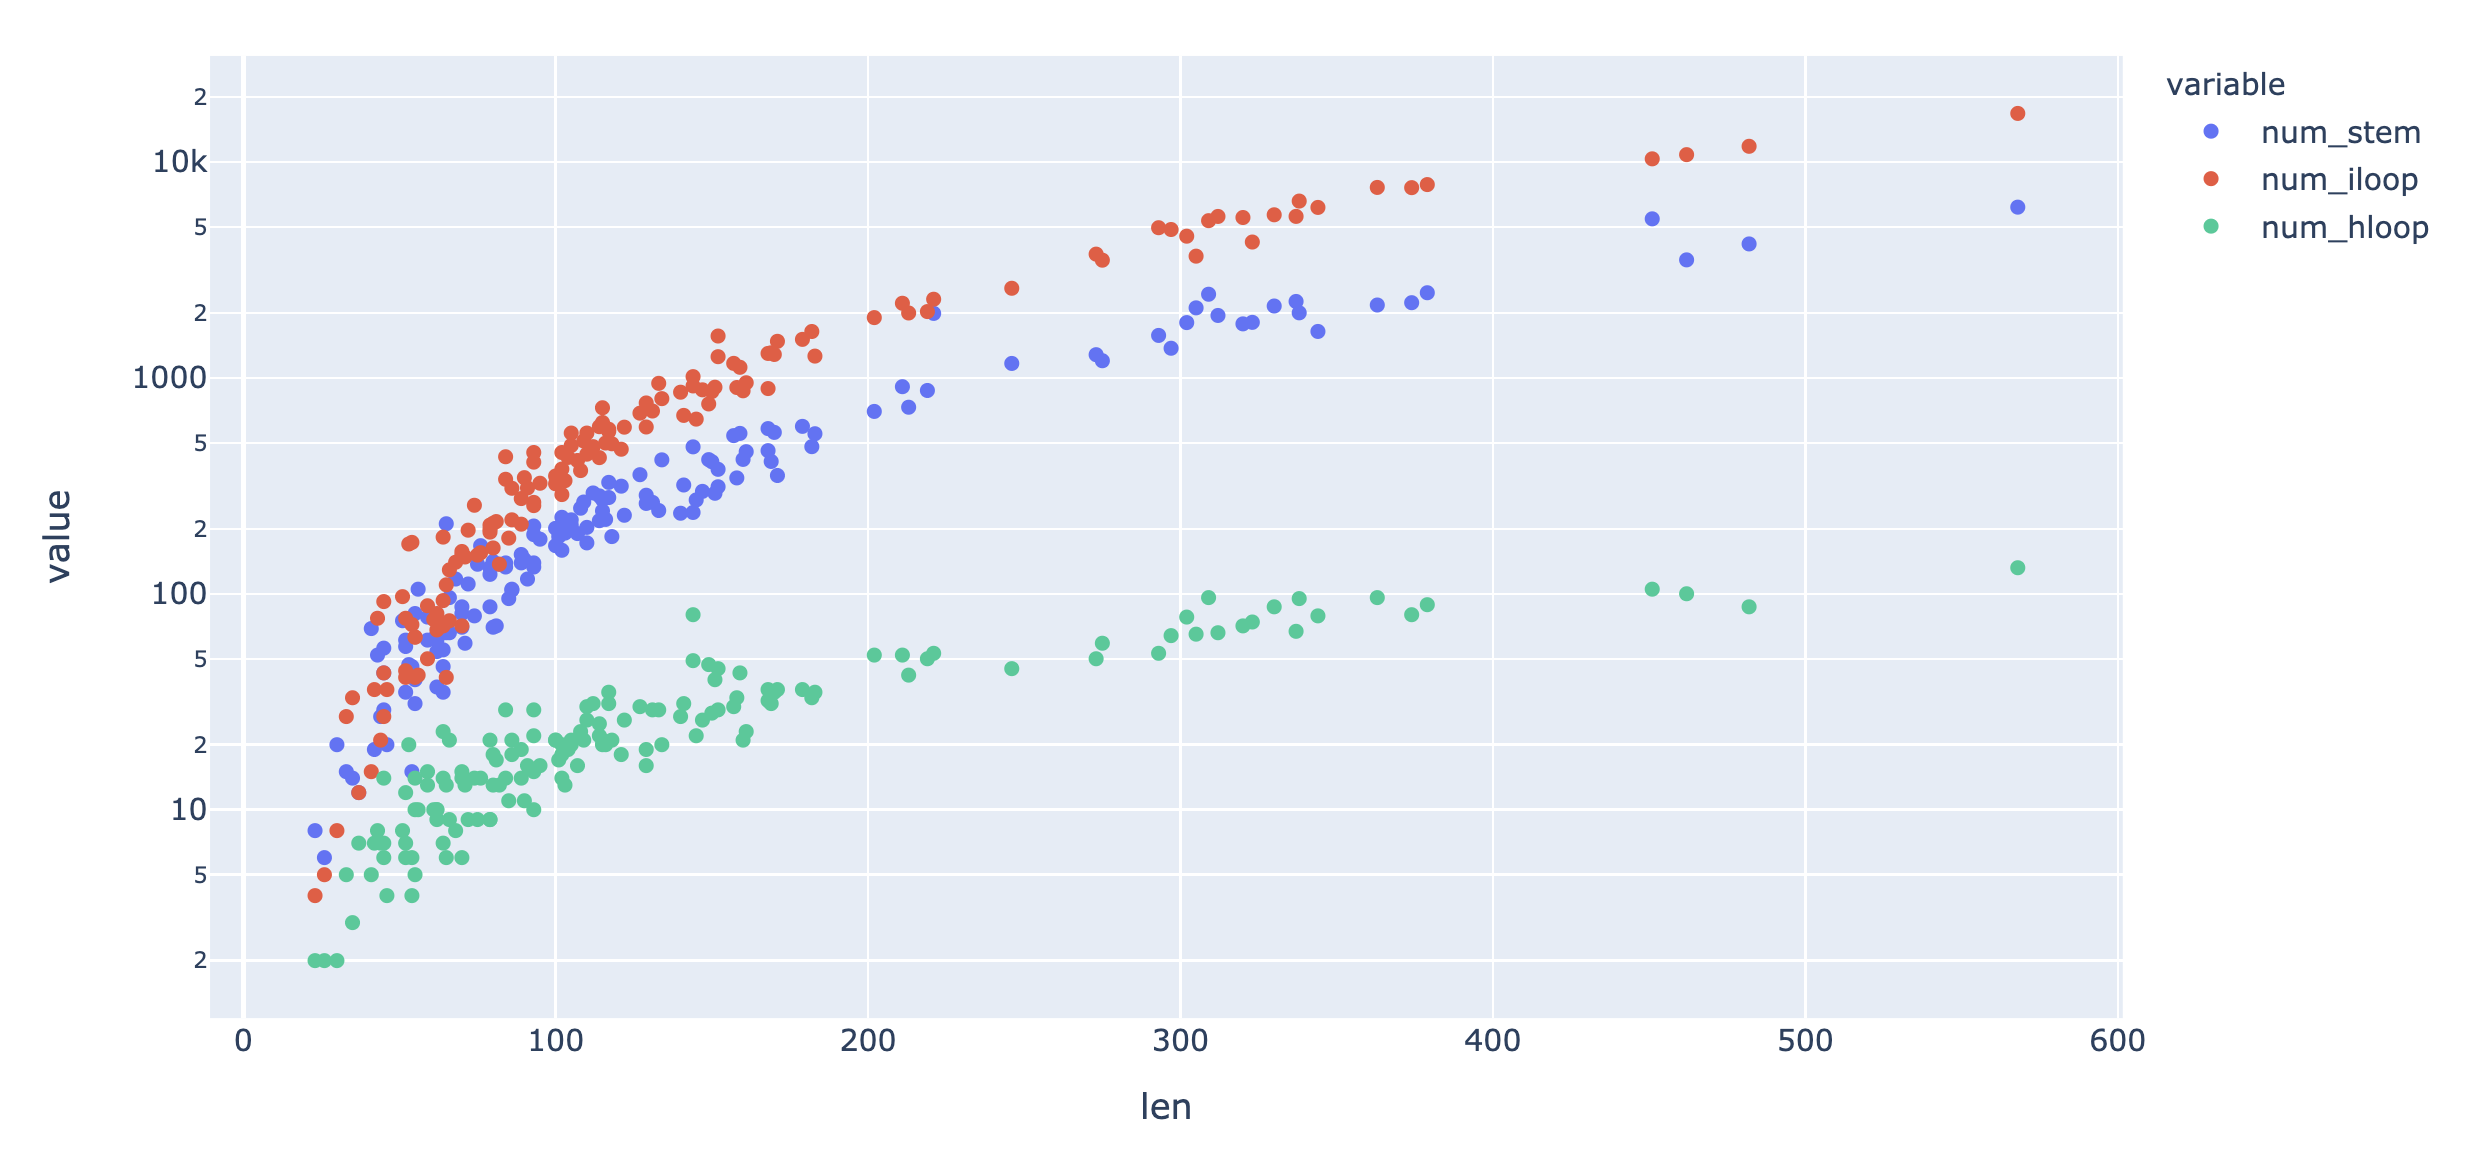
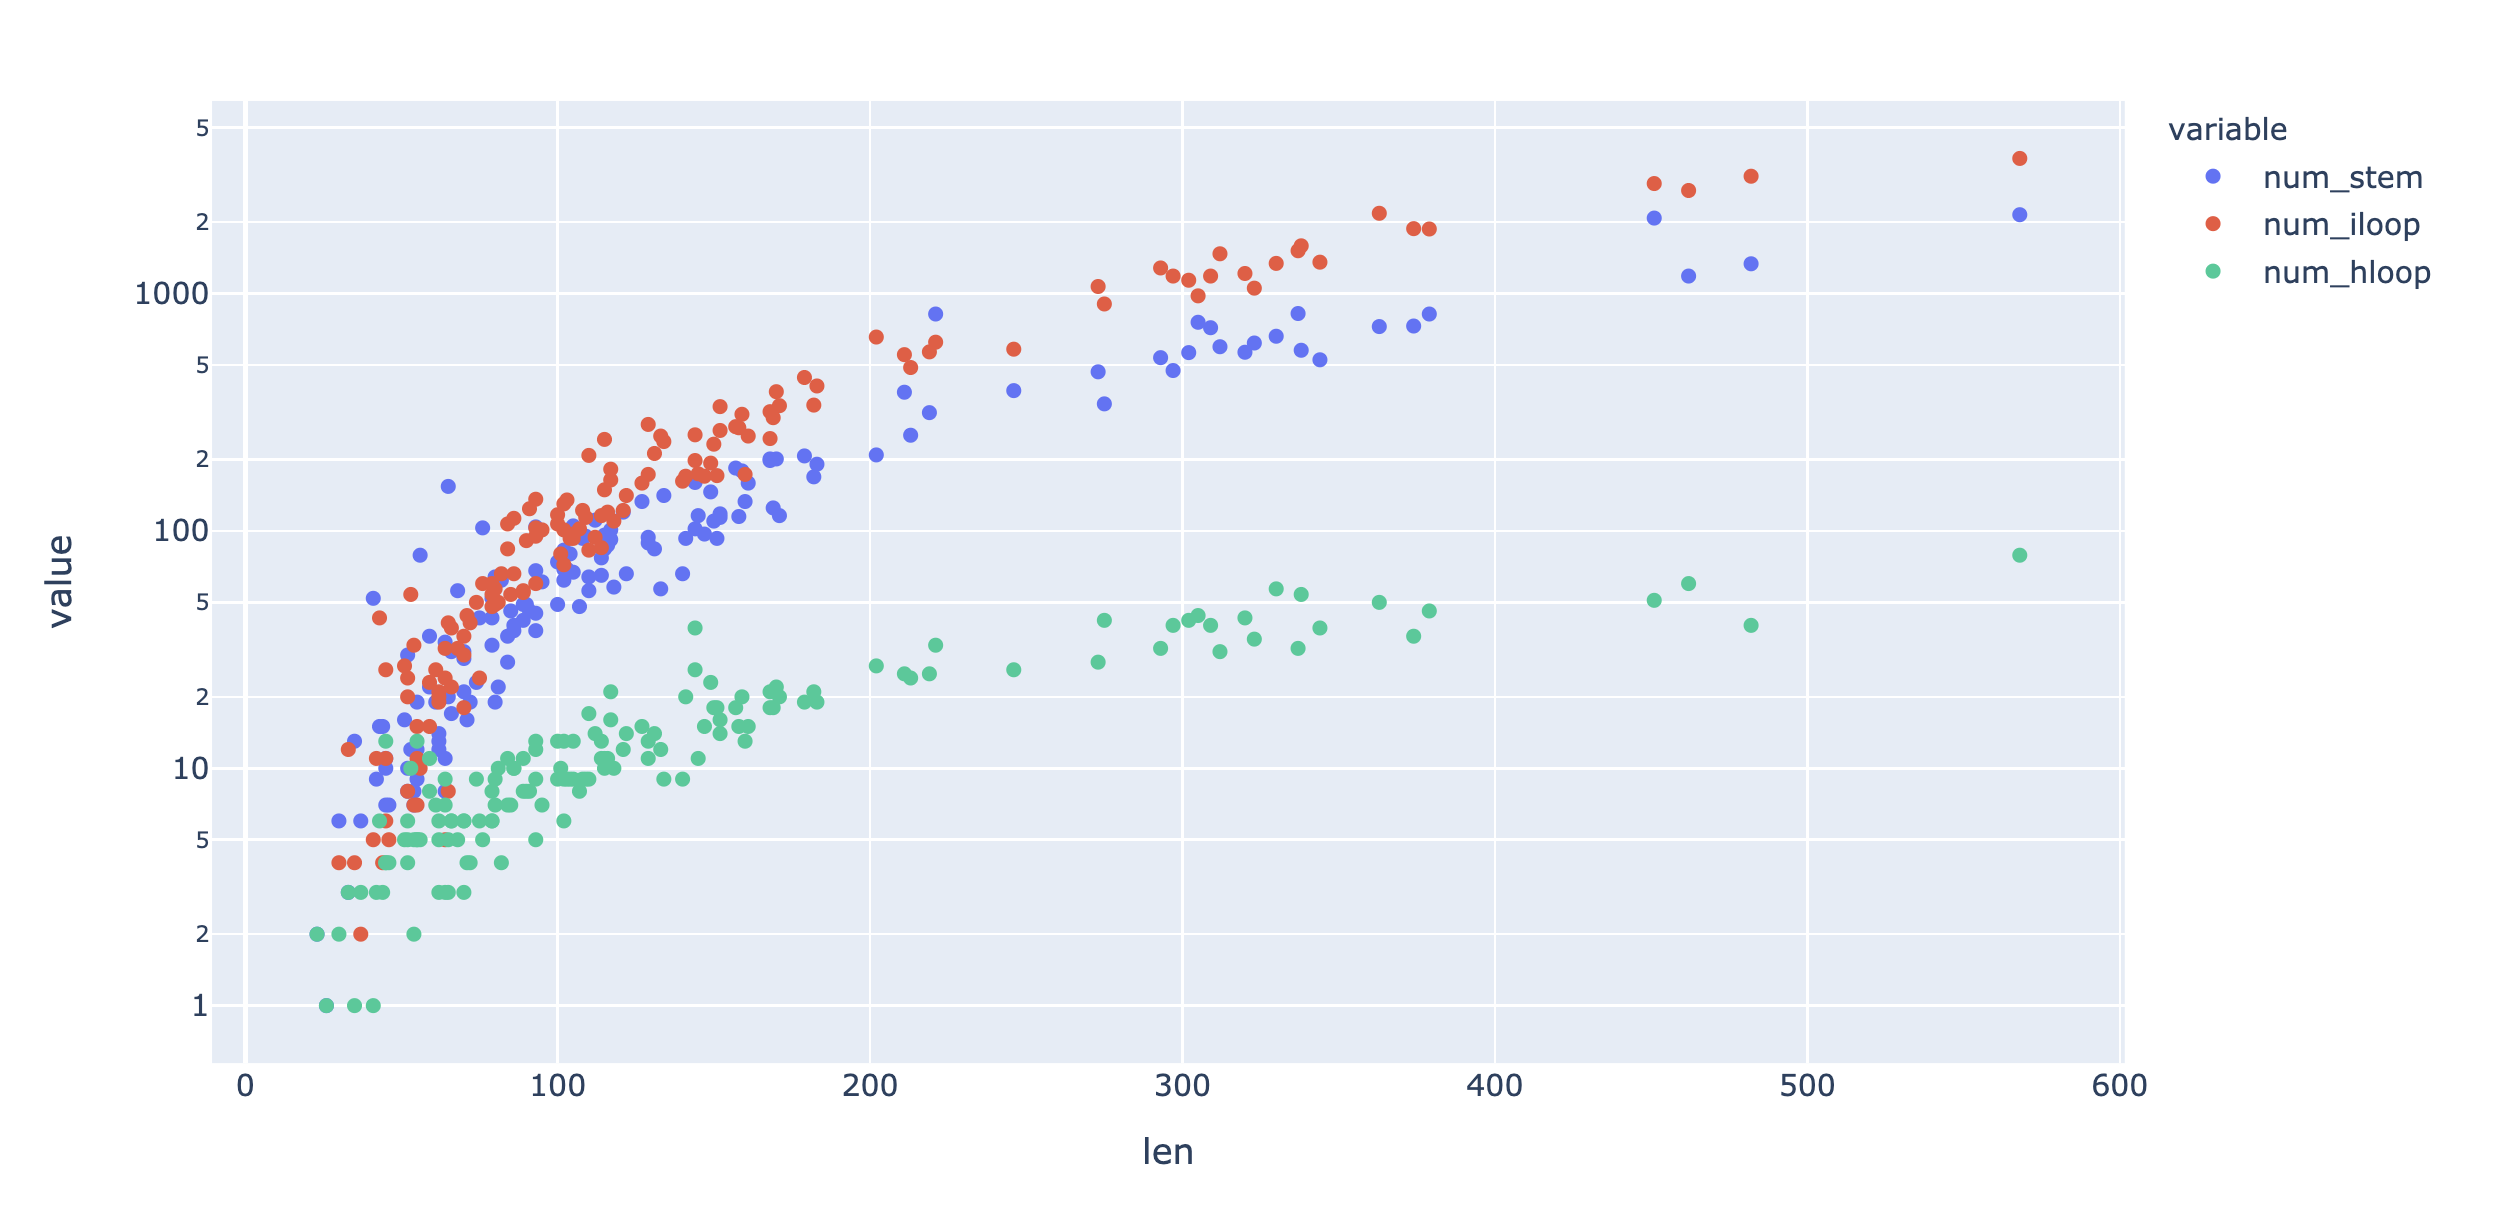
update plot (using dataset with correct s1 inference params)

diff --git a/meetings/2021_02_09/README.md b/meetings/2021_02_09/README.md
@@ -51,56 +51,94 @@ To be implemented in the future.
 
 ### Running on datasets
 
+TODO re-generate! using threshold=0.1
+
 run on rfam
 
-```
-python model_utils/run_stage_1.py --data "`dcl path 903rfx`" --num 0 --threshold 0.01 --topk 1 --perc_cutoff 0 --patch_size 100 --model v1.0 --out_file data/rfam_t0p01_k1.pkl.gz
-```
-
-
-run on s_processed
+<!--```-->
+<!--python model_utils/run_stage_1.py --data "`dcl path 903rfx`" --num 0 --threshold 0.01 --topk 1 --perc_cutoff 0 --patch_size 100 --model v1.0 --out_file data/rfam_t0p01_k1.pkl.gz-->
+<!--```-->
 
 
 ```
-python model_utils/run_stage_1.py --data "`dcl path a16nRG`" --num 0 --threshold 0.01 --topk 1 --perc_cutoff 0 --patch_size 100 --model v1.0 --out_file data/s_processed_t0p01_k1.pkl.gz
+python model_utils/run_stage_1.py --data "`dcl path 903rfx`" --num 0 --threshold 0.1 --topk 1 --perc_cutoff 0 --patch_size 150 --model v1.0 --out_file data/rfam_t0p1_k1.pkl.gz
 ```
+
+
 
 run on bpRNA?
 
 ```
-python model_utils/run_stage_1.py --data "`dcl path DmNgdP`" --num 0 --threshold 0.01 --topk 1 --perc_cutoff 0 --patch_size 200 --model v1.0 --out_file data/bprna_t0p01_k1.pkl.gz
+python model_utils/run_stage_1.py --data "`dcl path DmNgdP`" --num 0 --threshold 0.1 --topk 1 --perc_cutoff 0 --patch_size 150 --model v1.0 --out_file data/bprna_t0p1_k1.pkl.gz
 ```
 
 running
 
 
+run on s_processed
+
+
+<!--```-->
+<!--python model_utils/run_stage_1.py --data "`dcl path a16nRG`" --num 0 --threshold 0.01 --topk 1 --perc_cutoff 0 --patch_size 100 --model v1.0 --out_file data/s_processed_t0p01_k1.pkl.gz-->
+<!--```-->
+
+```
+python model_utils/run_stage_1.py --data "`dcl path a16nRG`" --num 0 --threshold 0.1 --topk 1 --perc_cutoff 0 --patch_size 150 --model v1.0 --out_file data/s_processed_t0p1_k1.pkl.gz
+```
+
+
+
+
+rnastralign
+
+```
+python model_utils/run_stage_1.py --data "`dcl path 6PvUty`" --num 0 --threshold 0.1 --topk 1 --perc_cutoff 0 --patch_size 150 --model v1.0 --out_file data/rnastralign_t0p1_k1.pkl.gz
+```
+
+
 ## S1 prediction
 
-### synthetic (for comparison)
+<!--### synthetic (for comparison)-->
 
-Based on 1000 samples.
+<!--Based on 1000 samples.-->
 
-![plot/synthetic_s1_pred_num_bbs.png](plot/synthetic_s1_pred_num_bbs.png)
+<!--![plot/synthetic_s1_pred_num_bbs.png](plot/synthetic_s1_pred_num_bbs.png)-->
+
+<!--(this and the following num_bbs v.s. len plots produced by [plot_num_bbs.ipynb](plot_num_bbs.ipynb))-->
 
 ### Rfam151
 
 ![plot/rfam_s1_pred_num_bbs.png](plot/rfam_s1_pred_num_bbs.png)
 
 
-Huge number of bounding box proposals
+S2 model can run on a large number of input bounding boxes without any issues.
+produced by [plot_num_bbs.ipynb](plot_num_bbs.ipynb)
 
 
+Prediction on examples of different lengths (& s2 inference run time):
+
+https://docs.google.com/presentation/d/1Uzpv7-p8laSt50YyK_0mOj8SF3NF-chBhZBpEey07eI/edit#slide=id.gbb94988b7d_0_36
 
 
+TODO eval metric?
 
-### s_processed
+TODO finetune? (how? bb sensitivity could be low)
 
-![plot/s_processed_s1_pred_num_bbs.png](plot/s_processed_s1_pred_num_bbs.png)
 
+<!--### s_processed-->
+
+<!--![plot/s_processed_s1_pred_num_bbs.png](plot/s_processed_s1_pred_num_bbs.png)-->
+
+<!--The 3 dataset show very similar trend.-->
 
 ### bpRNA
 
 Run S2 predicting? too many bbs (rfam)? pruning? bpRNA?
+
+check result on workstation, why is it same size as s_processed?
+
+
+
 
 ## S1 variational inference
 
